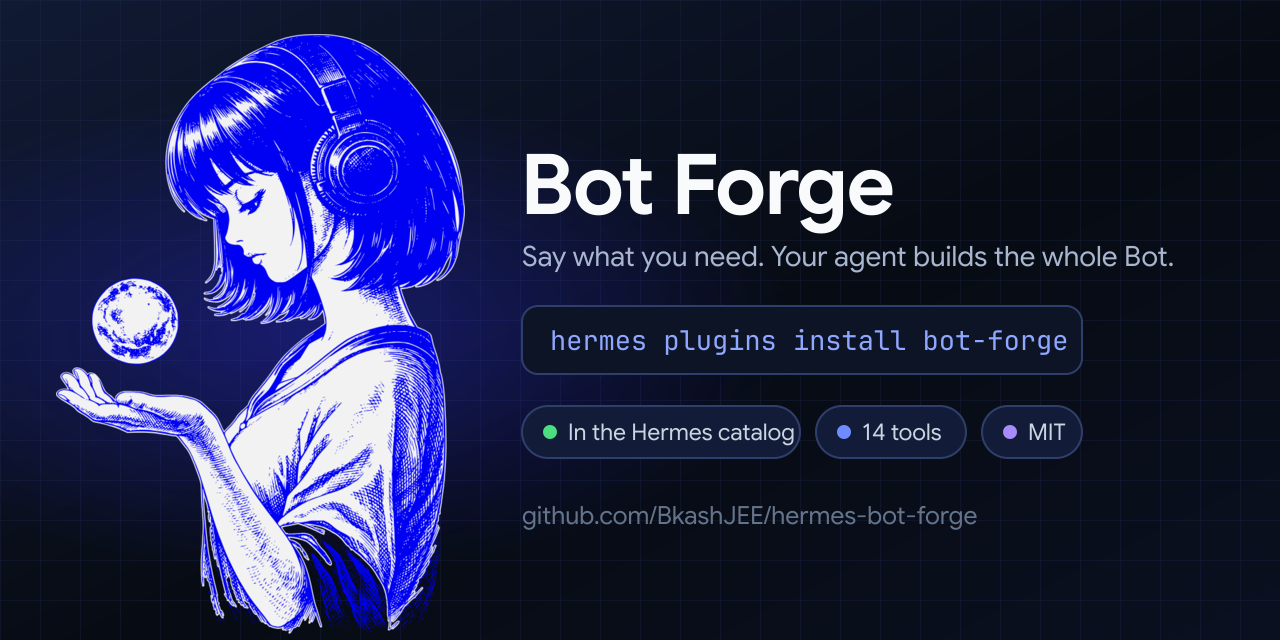
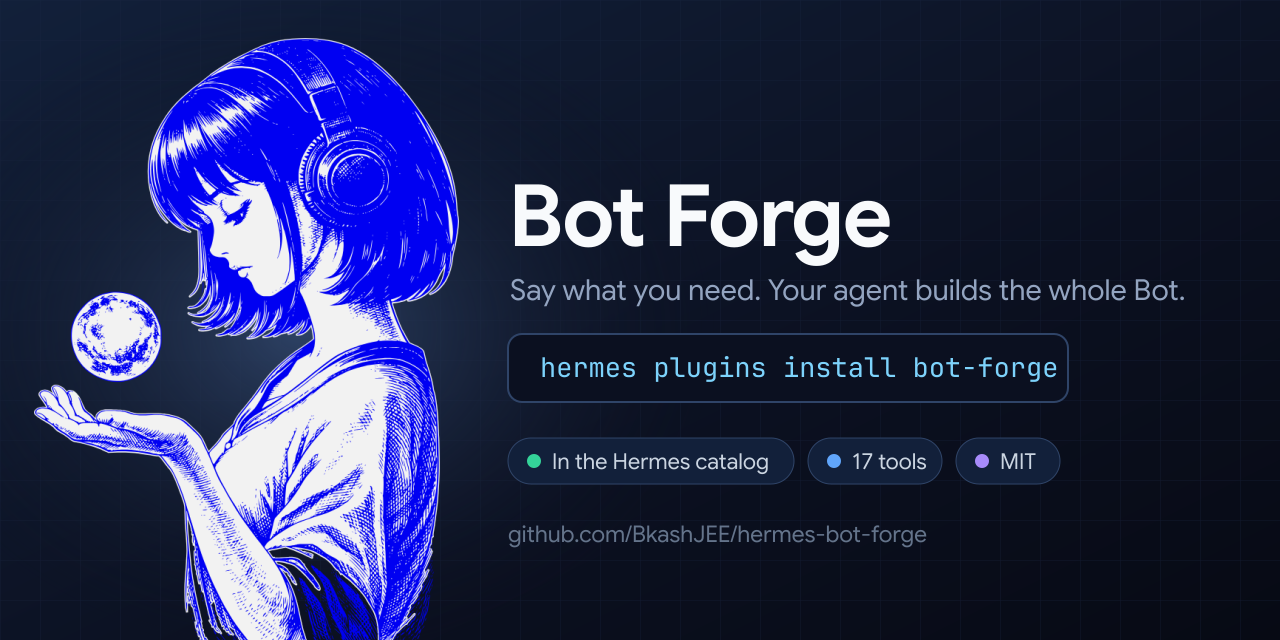
Fix the thumbnail and the tool count on the brand assets
Frame 0 of docs/demo.gif was an unlit character on a dark field — no product
name, no install line, nothing saying what this is. That frame is the thumbnail
everywhere the loop is shown without autoplay: the README, a social card, a
paused player. It was the first frame of a build-in, which is the one thing the
thumbnail must not be.

The loop now opens on the lockup it ends on, holds it, builds the Bot, and
returns to it. First and last frames are identical, so the seam does not jump
and there is no fade to black to freeze on. 10s instead of 9s, and 816 KB
instead of 1.6 MB, because the two holds compress to almost nothing.

Two causes, both recorded in videos/README.md:

  * A GSAP fromTo applies its "from" state at build time, so the three tweens
    that bring the lockup back were blanking it at t=0 even though they start at
    7.5s. They now pass immediateRender: false.
  * The lockup's clip window started at 6.9s, so it did not exist as an object
    at t=0 and could not be shown there. Every clip now spans the full loop and
    GSAP alone decides what is lit.

Separately, social-preview.png and banner.png both claimed "14 tools". There are
17. social-preview.png is the image the Nous catalog serves, so that was a wrong
fact on the most public asset we have.

The SVG sources had silently diverged from the shipped PNGs: 6b1559d swapped the
artwork to the character but left the SVGs on the old robot mascot, so the text
[…]

Changed region(s): [[0.0312, 0.0312, 0.9375, 1.0]]

diff --git a/videos/bot-spawn/index.html b/videos/bot-spawn/index.html
@@ -106,23 +106,23 @@
       id="root"
       data-composition-id="main"
       data-start="0"
-      data-duration="9"
+      data-duration="10"
       data-width="1080"
       data-height="1080"
     >
-      <div id="ground" class="layer clip" data-start="0" data-duration="9" data-track-index="0"></div>
-      <div id="grid" class="layer clip" data-start="0" data-duration="9" data-track-index="1"></div>
+      <div id="ground" class="layer clip" data-start="0" data-duration="10" data-track-index="0"></div>
+      <div id="grid" class="layer clip" data-start="0" data-duration="10" data-track-index="1"></div>
 
-      <div class="layer clip" data-start="0" data-duration="9" data-track-index="2">
+      <div class="layer clip" data-start="0" data-duration="10" data-track-index="2">
         <div id="orb-glow"></div>
         <img id="character" src="assets/character.png" alt="" />
       </div>
 
-      <div id="ask" class="clip" data-start="0" data-duration="6.6" data-track-index="3">
+      <div id="ask" class="clip" data-start="0" data-duration="10" data-track-index="3">
         <span class="quote">“</span><span id="ask-text"></span><span class="quote">”</span><span id="caret"></span>
       </div>
 
-      <div id="parts" class="clip" data-start="1.3" data-duration="5.3" data-track-index="4">
+      <div id="parts" class="clip" data-start="0" data-duration="10" data-track-index="4">
         <div class="part"><div class="tile"><svg viewBox="0 0 64 64"><rect x="9" y="14" width="46" height="36" rx="7"/><circle cx="24" cy="30" r="7"/><path d="M38 26h10M38 38h10"/></svg></div><div class="name">Identity</div></div>
         <div class="part"><div class="tile"><svg viewBox="0 0 64 64"><path d="M16 8h21l11 11v37H16z"/><path d="M37 8v11h11M24 32h16M24 42h16"/></svg></div><div class="name">SOUL.md</div></div>
         <div class="part"><div class="tile"><svg viewBox="0 0 64 64"><path d="M32 12c-9 0-15 6-15 13 0 4 2 7 4 9v12h22V34c2-2 4-5 4-9 0-7-6-13-15-13z"/><path d="M26 46h12"/></svg></div><div class="name">Memory</div></div>
@@ -131,7 +131,7 @@
         <div class="part"><div class="tile"><svg viewBox="0 0 64 64"><path d="M22 10v14M42 10v14"/><rect x="15" y="24" width="34" height="16" rx="6"/><path d="M32 40v14"/></svg></div><div class="name">Gateway</div></div>
       </div>
 
-      <div id="card" class="clip" data-start="5.25" data-duration="1.9" data-track-index="5">
+      <div id="card" class="clip" data-start="0" data-duration="10" data-track-index="5">
         <div class="who">
           <div class="face"></div>
           <div>
@@ -145,7 +145,7 @@
         </div>
       </div>
 
-      <div id="close" class="clip" data-start="6.9" data-duration="2.1" data-track-index="6">
+      <div id="close" class="clip" data-start="0" data-duration="10" data-track-index="6">
         <div class="mark">Bot Forge</div>
         <div class="rule"></div>
         <div class="cmd">hermes plugins install bot-forge</div>
@@ -155,24 +155,42 @@
     <script>
       const tl = gsap.timeline({ paused: true });
 
-      // 0.0–1.1 — the ask, typed the way a person types it
       const ASK = "make me a social media manager";
       const askEl = document.getElementById("ask-text");
-      tl.fromTo("#ask", { opacity: 0 }, { opacity: 1, duration: 0.25 }, 0.1);
+
+      // Frame 0 is the thumbnail. Wherever this loop is shown without autoplay — the README,
+      // a social card, a paused player — the still frame has to be the finished composition,
+      // not the first frame of a build-in. So the loop opens on the lockup it ends on: the
+      // character lit, the name, the install line. Nothing fades up from nothing.
+      askEl.textContent = ASK;
+      gsap.set("#character", { opacity: 1, x: 0 });
+      gsap.set("#orb-glow", { opacity: 0.85, scale: 1.05 });
+      gsap.set("#close", { opacity: 1 });
+      gsap.set("#close .mark", { opacity: 1, y: 0 });
+      gsap.set("#close .rule", { scaleX: 1, transformOrigin: "left center" });
+      gsap.set("#close .cmd", { opacity: 1, y: 0 });
+      gsap.set(["#ask", "#parts", "#card"], { opacity: 0 });
+      gsap.set("#caret", { opacity: 0 });
+
+      // 0.0-1.15 - hold the poster, so a scrubbed or paused frame near the start still reads
+      tl.to({}, { duration: 1.15 }, 0);
+
+      // 1.15 - the lockup steps aside and the ask is typed the way a person types it
+      tl.to("#close", { opacity: 0, duration: 0.3, ease: "power2.in" }, 1.15);
+      tl.set(askEl, { textContent: "" }, 1.45);
+      tl.to("#ask", { opacity: 1, duration: 0.2 }, 1.5);
+      tl.set("#caret", { opacity: 1 }, 1.5);
       tl.to({ n: 0 }, {
         n: ASK.length, duration: 0.95, ease: "none",
         onUpdate() { askEl.textContent = ASK.slice(0, Math.round(this.targets()[0].n)); },
-      }, 0.25);
-      tl.to("#caret", { opacity: 0, duration: 0.2 }, 1.3);
+      }, 1.6);
+      tl.to("#caret", { opacity: 0, duration: 0.2 }, 2.65);
 
-      // she is already there; the orb wakes when the ask lands
-      tl.fromTo("#character", { opacity: 0, x: 40 },
-                { opacity: 1, x: 0, duration: 0.9, ease: "power2.out" }, 0);
-      tl.fromTo("#orb-glow", { opacity: 0.25, scale: 0.8 },
-                { opacity: 1, scale: 1.15, duration: 0.5, ease: "power2.out" }, 1.15);
-      tl.to("#orb-glow", { opacity: 0.55, scale: 1, duration: 1.4, ease: "sine.inOut" }, 1.65);
+      // the orb answers the ask
+      tl.to("#orb-glow", { opacity: 1, scale: 1.2, duration: 0.5, ease: "power2.out" }, 2.5);
+      tl.to("#orb-glow", { opacity: 0.6, scale: 1, duration: 1.4, ease: "sine.inOut" }, 3.0);
 
-      // 1.4–3.4 — each part of the Bot comes out of the orb and settles into place.
+      // 2.75-4.9 - each part of the Bot comes out of the orb and settles into place.
       // Offsets are computed from the laid-out grid so the arc starts at the orb itself.
       gsap.utils.toArray("#parts .part").forEach((part, i) => {
         const box = part.getBoundingClientRect();
@@ -181,26 +199,32 @@
         tl.fromTo(part,
           { opacity: 0, x: fromX, y: fromY, scale: 0.25 },
           { opacity: 1, x: 0, y: 0, scale: 1, duration: 0.72, ease: "back.out(1.5)" },
-          1.4 + i * 0.17);
+          2.75 + i * 0.17);
       });
+      tl.set("#parts", { opacity: 1 }, 2.75);
 
-      // 4.75 — the parts hand over to the Bot they add up to
-      tl.to("#parts", { opacity: 0, y: -16, duration: 0.45, ease: "power2.in" }, 4.75);
+      // 5.3 - the parts hand over to the Bot they add up to
+      tl.to("#parts", { opacity: 0, y: -16, duration: 0.45, ease: "power2.in" }, 5.3);
       tl.fromTo("#card", { opacity: 0, y: 34, scale: 0.97 },
-                { opacity: 1, y: 0, scale: 1, duration: 0.6, ease: "power3.out" }, 5.25);
+                { opacity: 1, y: 0, scale: 1, duration: 0.6, ease: "power3.out" }, 5.8);
 
-      // 6.5 — clear, then the signature
-      tl.to("#card", { opacity: 0, y: -18, duration: 0.4, ease: "power2.in" }, 6.5);
-      tl.to("#ask", { opacity: 0, duration: 0.4, ease: "power2.in" }, 6.3);
+      // 7.0 - clear, and the lockup comes back to exactly where it started
+      tl.to("#card", { opacity: 0, y: -18, duration: 0.4, ease: "power2.in" }, 7.0);
+      tl.to("#ask", { opacity: 0, duration: 0.4, ease: "power2.in" }, 6.9);
+      tl.to("#close", { opacity: 1, duration: 0.01 }, 7.5);
+      // immediateRender:false on all three — a fromTo otherwise applies its "from" state at
+      // build time, which would blank the lockup that frame 0 exists to show.
       tl.fromTo("#close .mark", { opacity: 0, y: 22 },
-                { opacity: 1, y: 0, duration: 0.5, ease: "power2.out" }, 6.95);
+                { opacity: 1, y: 0, duration: 0.5, ease: "power2.out", immediateRender: false }, 7.55);
       tl.fromTo("#close .rule", { scaleX: 0 },
-                { scaleX: 1, duration: 0.4, ease: "power2.out", transformOrigin: "left center" }, 7.25);
+                { scaleX: 1, duration: 0.4, ease: "power2.out", transformOrigin: "left center",
+                  immediateRender: false }, 7.85);
       tl.fromTo("#close .cmd", { opacity: 0, y: 16 },
-                { opacity: 1, y: 0, duration: 0.45, ease: "power2.out" }, 7.45);
+                { opacity: 1, y: 0, duration: 0.45, ease: "power2.out", immediateRender: false }, 8.05);
 
-      // 8.6 — settle toward black so the loop does not jump
-      tl.to(["#close", "#character", "#orb-glow"], { opacity: 0, duration: 0.4, ease: "power2.in" }, 8.6);
+      // 8.6-10 - hold the lockup. The last frame matches the first, so the loop does not jump
+      // and there is no fade to black for a player to freeze on.
+      tl.to({}, { duration: 1.4 }, 8.6);
 
       window.__timelines["main"] = tl;
       tl.seek(0);

diff --git a/videos/README.md b/videos/README.md
@@ -44,6 +44,22 @@ composition (`#orb-glow` at 499,548, and the same pair in the tile stagger). Tho
 follow from the character being 1000px tall with its right edge 40px off-canvas — change either and
 the tiles will fly out of the wrong place rather than out of her hand.
 
+The loop opens on the same lockup it ends on. Frame 0 is the thumbnail — the README, a social
+card and any paused player all show it — so it has to be the finished composition rather than the
+first frame of a build-in. The last frame matches it, so the loop does not jump and there is no
+fade to black for a player to freeze on.
+
+Two things that will quietly break that if you edit the timeline:
+
+- A GSAP `fromTo` applies its **from** state at build time (`immediateRender` defaults to true),
+  even when the tween starts at 7.5s. The three tweens that bring the lockup back therefore pass
+  `immediateRender: false`; without it they blank the lockup at t=0, which is exactly the frame
+  that has to show it.
+- Every clip spans the full 10s and GSAP alone decides what is lit. When the lockup's clip window
+  started at 6.9s it did not exist as an object at t=0 and could not be shown there.
+
+Check both after any timeline change: the first and last frames of the render should be identical.
+
 `docs/demo.gif` is made from the render:
 
 ```bash
@@ -53,5 +69,5 @@ ffmpeg -i renders/<render>.mp4 -i /tmp/pal.png \
   -y ../../docs/demo.gif
 ```
 
-480px at 13fps lands around 1.6 MB, which keeps the README's first screen quick to load. The GIF is
+480px at 13fps lands under 1 MB (the two holds compress to almost nothing), which keeps the README's first screen quick to load. The GIF is
 committed because the README needs it; the MP4 it came from is not.
